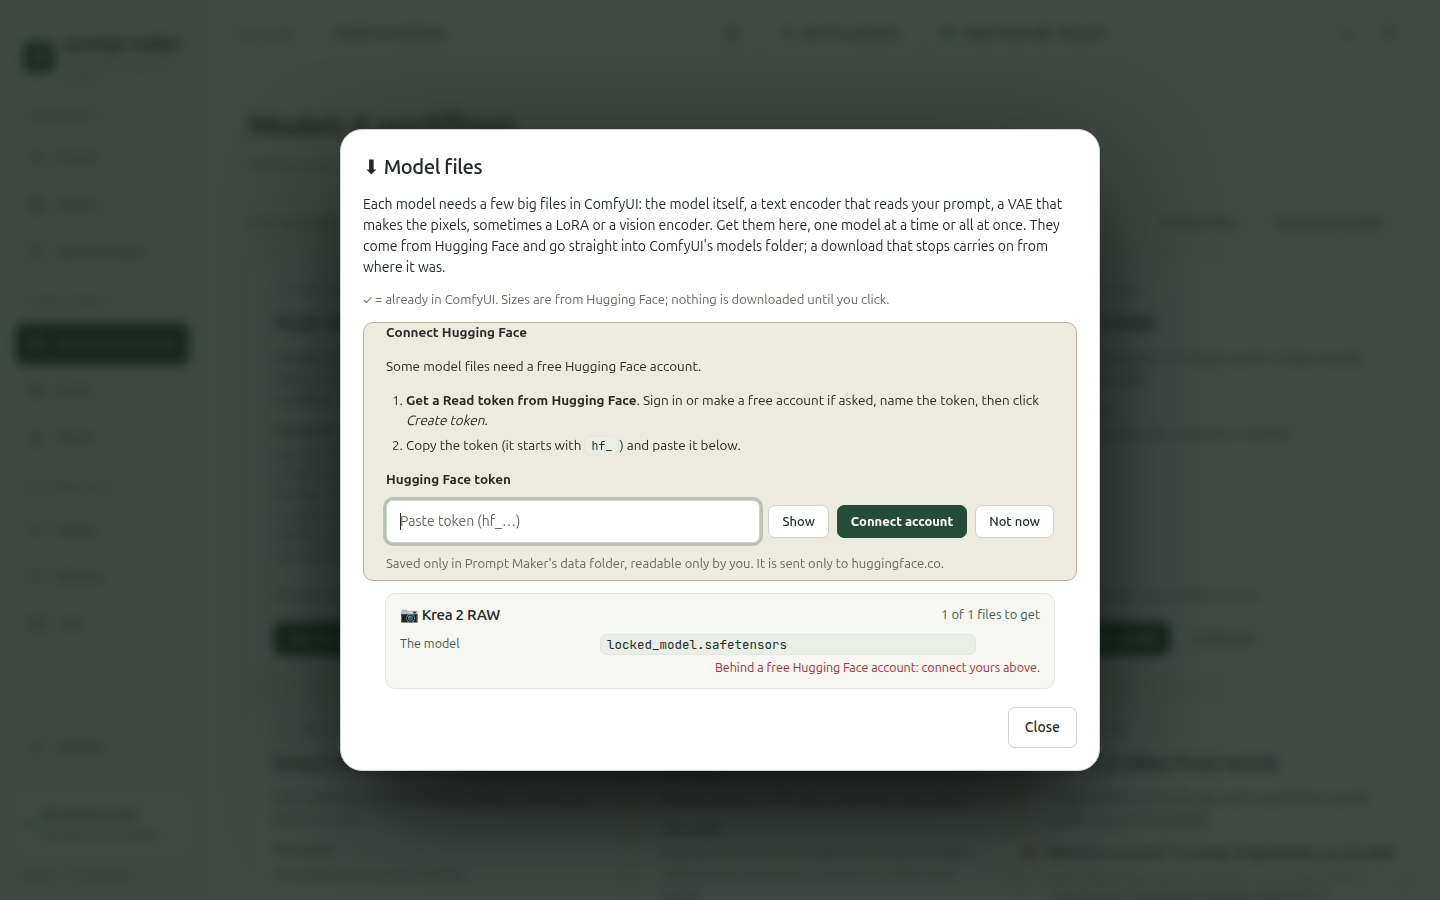
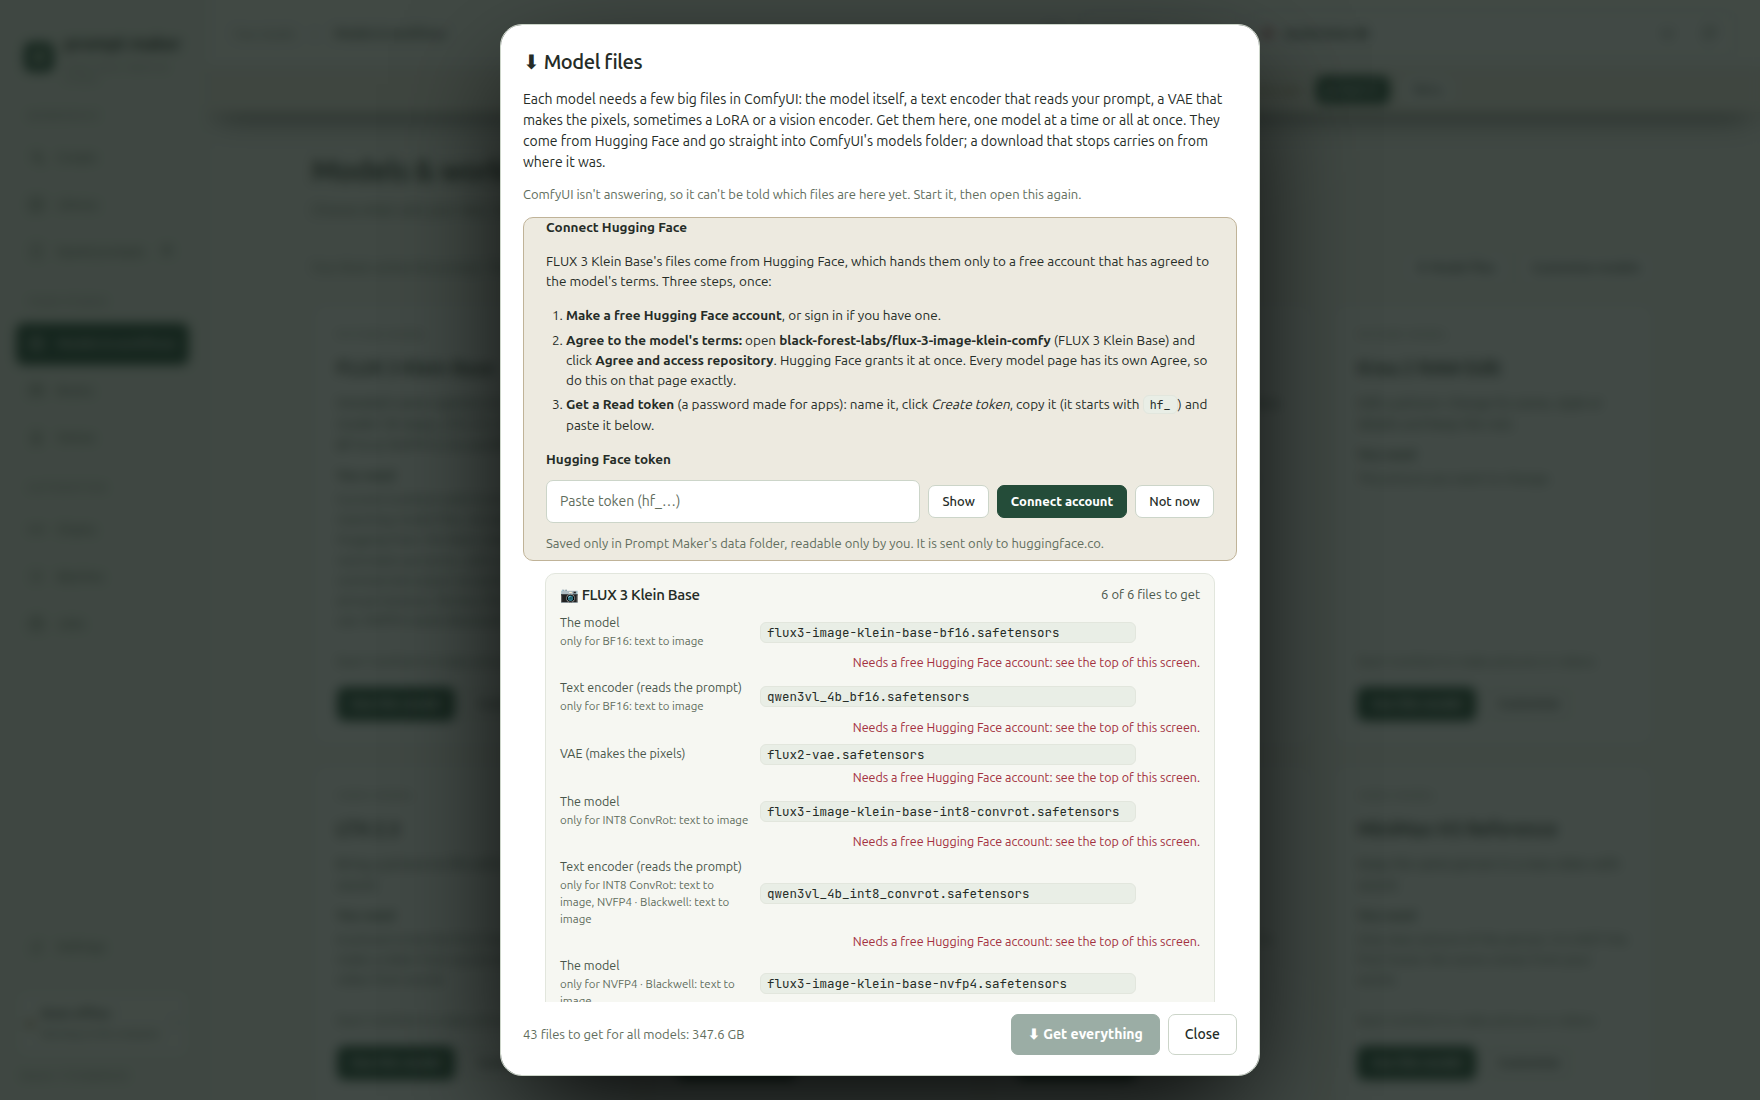
Spell out the Hugging Face steps in the Model files box
Three numbered steps with the exact pages: make a free account, click
"Agree and access repository" on the model's own page (linked per repo,
with the models that need it), paste a Read token. Once connected, the box
says "One step left" with the page still to agree on and ↻ Check again;
each file row just points up instead of repeating the story. Screenshot
retaken.

diff --git a/public/app.js b/public/app.js
@@ -7732,8 +7732,8 @@ function renderModelFiles() {
     if (f.have === true) act = '<span class="mm-ok">✓ Here</span>';
     else if (dl?.state === 'running') act = `<span class="mm-prog"><span class="mm-bar" style="width:${dl.total ? Math.round((dl.received / dl.total) * 100) : 0}%"></span></span><span class="mm-pct">${dl.total ? `${Math.round((dl.received / dl.total) * 100)}% of ${sizeLabel(dl.total)}` : 'Starting…'}</span><button type="button" class="icon-btn" data-act="mf-cancel" data-id="${esc(dl.id)}" aria-label="Stop downloading ${esc(f.file)}">✕</button>`;
     else if (dl?.state === 'done') act = '<span class="mm-ok">✓ Downloaded</span>';
-    else if (f.gated === 'terms') act = `<span class="mm-none">Accept its terms first: Hugging Face says ${d.huggingface?.user ? `<b>${esc(d.huggingface.user)}</b>` : 'your account'} isn't on this model's list yet. Open <a href="${esc(mfRepoPage(f.url))}" target="_blank" rel="noopener noreferrer">${esc(mfRepoName(f.url))}</a> (this repo, not the model's main page: each has its own Agree) signed in as that account, click Agree (granted at once), then</span><button type="button" class="btn small" data-act="mf-recheck">↻ Check again</button>`;
-    else if (f.gated) act = `<span class="mm-none">${hf ? "Hugging Face didn't accept your token: connect your account again above." : 'Behind a free Hugging Face account: connect yours above.'}</span>`;
+    else if (f.gated === 'terms') act = '<span class="mm-none">Accept its terms first (one step left: see the top of this screen).</span>';
+    else if (f.gated) act = `<span class="mm-none">${hf ? 'Hugging Face no longer accepts your token: see the top of this screen.' : 'Needs a free Hugging Face account: see the top of this screen.'}</span>`;
     else if (f.download) act = `${dl?.state === 'error' ? `<span class="mm-err">${linkify(dl.error)}</span>` : ''}<button type="button" class="btn small primary" data-act="mf-get" data-file="${esc(f.file)}" ${d.comfy ? '' : 'disabled title="Start ComfyUI first"'}>${dl?.state === 'error' ? '↻ Try again' : '⬇ Get'}</button>`;
     else if (/^https?:\/\//.test(f.url || '')) act = `<span class="mm-none">Get it from <a href="${esc(f.url)}" target="_blank" rel="noopener noreferrer">${esc(new URL(f.url).hostname)}</a> and put it in models/${esc(f.folder || '…')}.</span>`;
     else act = `<span class="mm-none">No download link: get it where the workflow came from, into models/${esc(f.folder || '…')}.</span>`;
@@ -7771,10 +7771,25 @@ const mfRepoName = url => { try { return decodeURIComponent(new URL(mfRepoPage(u
 const mfRepoPage = url => { try { const u = new URL(url); return u.pathname.includes('/resolve/') ? `${u.origin}${u.pathname.split('/resolve/')[0]}` : url; } catch { return url; } };
 // Some files (FLUX 3 Klein's) are handed out only to a signed-in Hugging Face account that clicked Agree on the
 // model's page: one token, pasted once here, and ⬇ Get works for them like for the rest.
+// The pages whose files Hugging Face hands only to an account that clicked Agree: one per repo, with the models that
+// need it. terms: the connected account hasn't agreed there yet (Hugging Face said so when asked).
+const mfGatedRepos = d => {
+  const repos = new Map();
+  for (const m of d.models) for (const f of mfMissing(m).filter(f => f.gated)) {
+    const page = mfRepoPage(f.url);
+    const r = repos.get(page) || { page, name: mfRepoName(f.url), models: [], terms: false };
+    if (!r.models.includes(m.name)) r.models.push(m.name);
+    if (f.gated === 'terms') r.terms = true;
+    repos.set(page, r);
+  }
+  return [...repos.values()];
+};
+const mfRepoLinks = repos => repos.map(r => `<a href="${esc(r.page)}" target="_blank" rel="noopener noreferrer"><b>${esc(r.name)}</b></a> (${esc(r.models.join(', '))})`).join(', ');
 function renderModelFilesHf(d) {
   const box = $('#mfHf');
   const hf = d.huggingface || {};
-  const gated = d.models.some(m => mfMissing(m).some(f => f.gated));
+  const repos = mfGatedRepos(d);
+  const gated = repos.length > 0;
   box.hidden = !hf.connected && !gated;
   if (box.hidden) return;
   box.classList.toggle('on', Boolean(hf.connected));
@@ -7782,18 +7797,24 @@ function renderModelFilesHf(d) {
     mf.hfToken = '';
     mf.hfTokenVisible = false;
     mf.hfChecking = false;
-    box.innerHTML = `<p>🤗 Hugging Face: connected${hf.user ? ` as <b>${esc(hf.user)}</b>` : ''}. The files behind an account download like the rest${gated ? ', once you\'ve clicked Agree on the model\'s page' : ''}. <button type="button" class="btn small" data-act="mf-hf-off">Disconnect</button></p>`;
+    const who = hf.user ? `<b>${esc(hf.user)}</b>` : 'your account';
+    const terms = repos.filter(r => r.terms);
+    const refused = repos.some(r => !r.terms);
+    box.innerHTML = `<p>🤗 Hugging Face: connected${hf.user ? ` as <b>${esc(hf.user)}</b>` : ''}. ${!gated ? 'The files behind an account download like the rest. ' : ''}<button type="button" class="btn small" data-act="mf-hf-off">Disconnect</button></p>
+      ${terms.length ? `<p class="mm-none"><b>One step left.</b> Hugging Face says ${who} hasn't agreed to the terms of ${mfRepoLinks(terms)} yet. Open that page <b>signed in as ${who}</b>, click <b>Agree and access repository</b> (it's granted at once), then come back and click <button type="button" class="btn small primary" data-act="mf-recheck">↻ Check again</button></p>` : ''}
+      ${refused ? '<p class="mm-err">Hugging Face no longer accepts this token. Disconnect, then connect again with a new Read token.</p>' : ''}`;
     return;
   }
   if (!mf.hfForm) {
-    box.innerHTML = '<p>Some of these files are handed out only to a Hugging Face account (free). Connect yours once, and they download like the rest. <button type="button" class="btn small primary" data-act="mf-hf-on">Connect Hugging Face</button></p>';
+    box.innerHTML = `<p>Hugging Face hands out ${esc(repos.map(r => r.models.join(', ')).join(', '))}'s files only to a free account that has agreed to the model's terms. Three short steps, once: <button type="button" class="btn small primary" data-act="mf-hf-on">Connect Hugging Face</button></p>`;
     return;
   }
   box.innerHTML = `<p><b>Connect Hugging Face</b></p>
-    <p>Some model files need a free Hugging Face account.</p>
+    <p>${esc(repos.map(r => r.models.join(', ')).join(', ') || 'Some model')}'s files come from Hugging Face, which hands them only to a free account that has agreed to the model's terms. Three steps, once:</p>
     <ol>
-      <li><a href="https://huggingface.co/settings/tokens/new?tokenType=read" target="_blank" rel="noopener noreferrer"><b>Get a Read token from Hugging Face</b></a>. Sign in or make a free account if asked, name the token, then click <i>Create token</i>.</li>
-      <li>Copy the token (it starts with <code>hf_</code>) and paste it below.</li>
+      <li><a href="https://huggingface.co/join" target="_blank" rel="noopener noreferrer"><b>Make a free Hugging Face account</b></a>, or <a href="https://huggingface.co/login" target="_blank" rel="noopener noreferrer">sign in</a> if you have one.</li>
+      <li><b>Agree to the model's terms:</b> open ${mfRepoLinks(repos) || "the model's page"} and click <b>Agree and access repository</b>. Hugging Face grants it at once. Every model page has its own Agree, so do this on that page exactly.</li>
+      <li><a href="https://huggingface.co/settings/tokens/new?tokenType=read" target="_blank" rel="noopener noreferrer"><b>Get a Read token</b></a> (a password made for apps): name it, click <i>Create token</i>, copy it (it starts with <code>hf_</code>) and paste it below.</li>
     </ol>
     <label class="mf-hf-label" for="mfHfToken">Hugging Face token</label>
     <div class="row"><input id="mfHfToken" type="${mf.hfTokenVisible ? 'text' : 'password'}" autocomplete="off" autocapitalize="off" spellcheck="false" placeholder="Paste token (hf_…)" aria-describedby="mfHfPrivacy"><button type="button" class="btn small" data-act="mf-hf-show" aria-pressed="${mf.hfTokenVisible}">${mf.hfTokenVisible ? 'Hide' : 'Show'}</button><button type="button" class="btn small primary" data-act="mf-hf-save" ${mf.hfChecking ? 'disabled' : ''}>${mf.hfChecking ? 'Checking…' : 'Connect account'}</button><button type="button" class="btn small" data-act="mf-hf-cancel" ${mf.hfChecking ? 'disabled' : ''}>Not now</button></div>

diff --git a/docs/guide.md b/docs/guide.md
@@ -572,7 +572,7 @@ Each model needs a few big files in ComfyUI: the model itself, a text encoder th
 - **Each file, in plain words:** what it is (*The model*, *Text encoder*, *VAE*, *LoRA*…), its file name, and **✓ Here** when ComfyUI has it. The files come from the workflows the model has (every workflow that comes with the app names a Hugging Face link for each of its files).
 - **Its size** for the ones you don't have, asked of Hugging Face when the list opens (nothing is downloaded by that). Each model says how much it still needs, and the bottom line adds it all up.
 - **⬇ Get** fetches one file, **⬇ Get all for this model** every file that model lacks, **⬇ Get everything** the lot. They go straight into ComfyUI's models folder, with a bar each; a download that stops carries on from where it was, and **✕** stops one. They're the same downloads as Fine-tune → Rendering's (see [Missing models](#missing-models)).
-- **A file behind a Hugging Face account** (FLUX 3 Klein's, for example: Hugging Face hands them only to a signed-in account that clicked *Agree* on the model's page) says so, and the dialog offers **Connect Hugging Face**: click **Get a Read token**, sign in or make a free account, name and create the token, then paste it and click **Connect account**. **Show** lets you check the paste. The token stays in the field while the model list refreshes; if Hugging Face rejects it, it stays selected so another paste replaces it. A *Fine-grained* token can't open gated models unless *Read access to contents of all public gated repos you can access* is ticked, and Prompt Maker says so if needed. Prompt Maker checks the token, says whose it is, and keeps it in `huggingface.json` in the data folder, readable by you only; it goes to huggingface.co alone (never to the file store Hugging Face hands the download to) and never back to the page. From then on those files have **⬇ Get** like the rest. A file whose terms you haven't accepted yet says **Accept its terms first**, names the account it checked and links the exact repo to agree on (FLUX 3 Klein's files are in `black-forest-labs/flux-3-image-klein-comfy`, not on the model's main page, and every repo has its own *Agree*): open it signed in as that account, click *Agree*, then **↻ Check again**, which asks Hugging Face afresh. **Disconnect** forgets the token.
+- **A file behind a Hugging Face account** (FLUX 3 Klein's, for example: Hugging Face hands them only to a signed-in account that clicked *Agree* on the model's page) says so, and the box at the top of the dialog walks you through it in three numbered steps, once: **Connect Hugging Face** shows them. 1. Make a free Hugging Face account (or sign in). 2. Agree to the model's terms: the box links the exact page (FLUX 3 Klein's files are in `black-forest-labs/flux-3-image-klein-comfy`, not on the model's main page, and every page has its own Agree); click **Agree and access repository** there. 3. **Get a Read token**: name and create it, paste it below and click **Connect account**. **Show** lets you check the paste. The token stays in the field while the model list refreshes; if Hugging Face rejects it, it stays selected so another paste replaces it. A *Fine-grained* token can't open gated models unless *Read access to contents of all public gated repos you can access* is ticked, and Prompt Maker says so if needed. Prompt Maker checks the token, says whose it is, and keeps it in `huggingface.json` in the data folder, readable by you only; it goes to huggingface.co alone (never to the file store Hugging Face hands the download to) and never back to the page. From then on those files have **⬇ Get** like the rest. Connected but step 2 skipped (or done with another account)? The box says **One step left**, names the account it checked and links the page to agree on: open it signed in as that account, click **Agree and access repository**, then **↻ Check again**, which asks Hugging Face afresh. Each file row just points to the box. **Disconnect** forgets the token.
 - **A file only some of a model's workflows use** (FLUX 3 Klein has one model file per variant: BF16, INT8, NVFP4) says which under its kind, so you get the variant you render with, not all of them.
 
 ComfyUI has to be running for the list to say what's there; when it's off, the dialog offers **▶ Start ComfyUI**.

diff --git a/README.md b/README.md
@@ -64,6 +64,8 @@ You don't write the long, technical prompts these models want. You type a few wo
 
 ## What's new
 
+**1.72.8 — Hugging Face, in three plain steps.** The box in ⬇ Model files now spells out the whole thing: make a free account, click **Agree and access repository** on the exact page it links (FLUX 3 Klein's files live on `flux-3-image-klein-comfy`, not the model's main page), paste a Read token. Once connected, it says **One step left** with the page still to agree on, instead of the same line under every file.
+
 **1.72.7 — Check again really checks again.** In ⬇ Model files, a file behind a Hugging Face account that said **Accept its terms first** kept saying it after you clicked Agree, until Prompt Maker was restarted: **↻ Check again** now asks Hugging Face afresh. The message also names the account it checked and the exact repo to agree on, since FLUX 3 Klein's files live in `flux-3-image-klein-comfy`, a different page from the model's own, with its own Agree.
 
 **1.72.6 — the real GNOME title bar.** On GNOME (Ubuntu's desktop), 1.72.5 changed nothing: GNOME never lets a Wayland window ask for the desktop's title bar, so Chrome kept drawing its own 23-pixel bar with shrunken buttons. Prompt Maker's window now opens through XWayland on GNOME, and GNOME draws the title bar itself: the normal height and full-sized minimize, maximize and close. Graphics acceleration is the same either way; `PM_WAYLAND=1` opens a native Wayland window instead.

diff --git a/docs/whats-new.md b/docs/whats-new.md
@@ -2,6 +2,10 @@
 
 The notes that used to live in the README, newest first. Older versions are in the [releases](https://github.com/VincentAZ/prompt-maker/releases) and the git history.
 
+## Update in 1.72.8
+
+**Hugging Face, in three plain steps.** The box at the top of ⬇ Model files now spells out the whole thing, with the exact pages: 1. make a free Hugging Face account (or sign in); 2. open the model's own page (linked; FLUX 3 Klein's files live on `black-forest-labs/flux-3-image-klein-comfy`, not the model's main page) and click **Agree and access repository**; 3. get a Read token and paste it. Once connected, the box says **One step left** and names the account and page still to agree on, with **↻ Check again** there; each file row just points up to it instead of repeating the story six times.
+
 ## Update in 1.72.7
 
 **Check again really checks again.** In ⬇ Model files, a file behind a Hugging Face account that said **Accept its terms first** kept saying it after you clicked Agree, until Prompt Maker was restarted: Prompt Maker remembered Hugging Face's first answer for the whole session. **↻ Check again** now asks afresh. The message also names the account it checked and links the exact repo to agree on: FLUX 3 Klein's files live in `black-forest-labs/flux-3-image-klein-comfy`, a different page from the model's own, and every repo has its own Agree.
